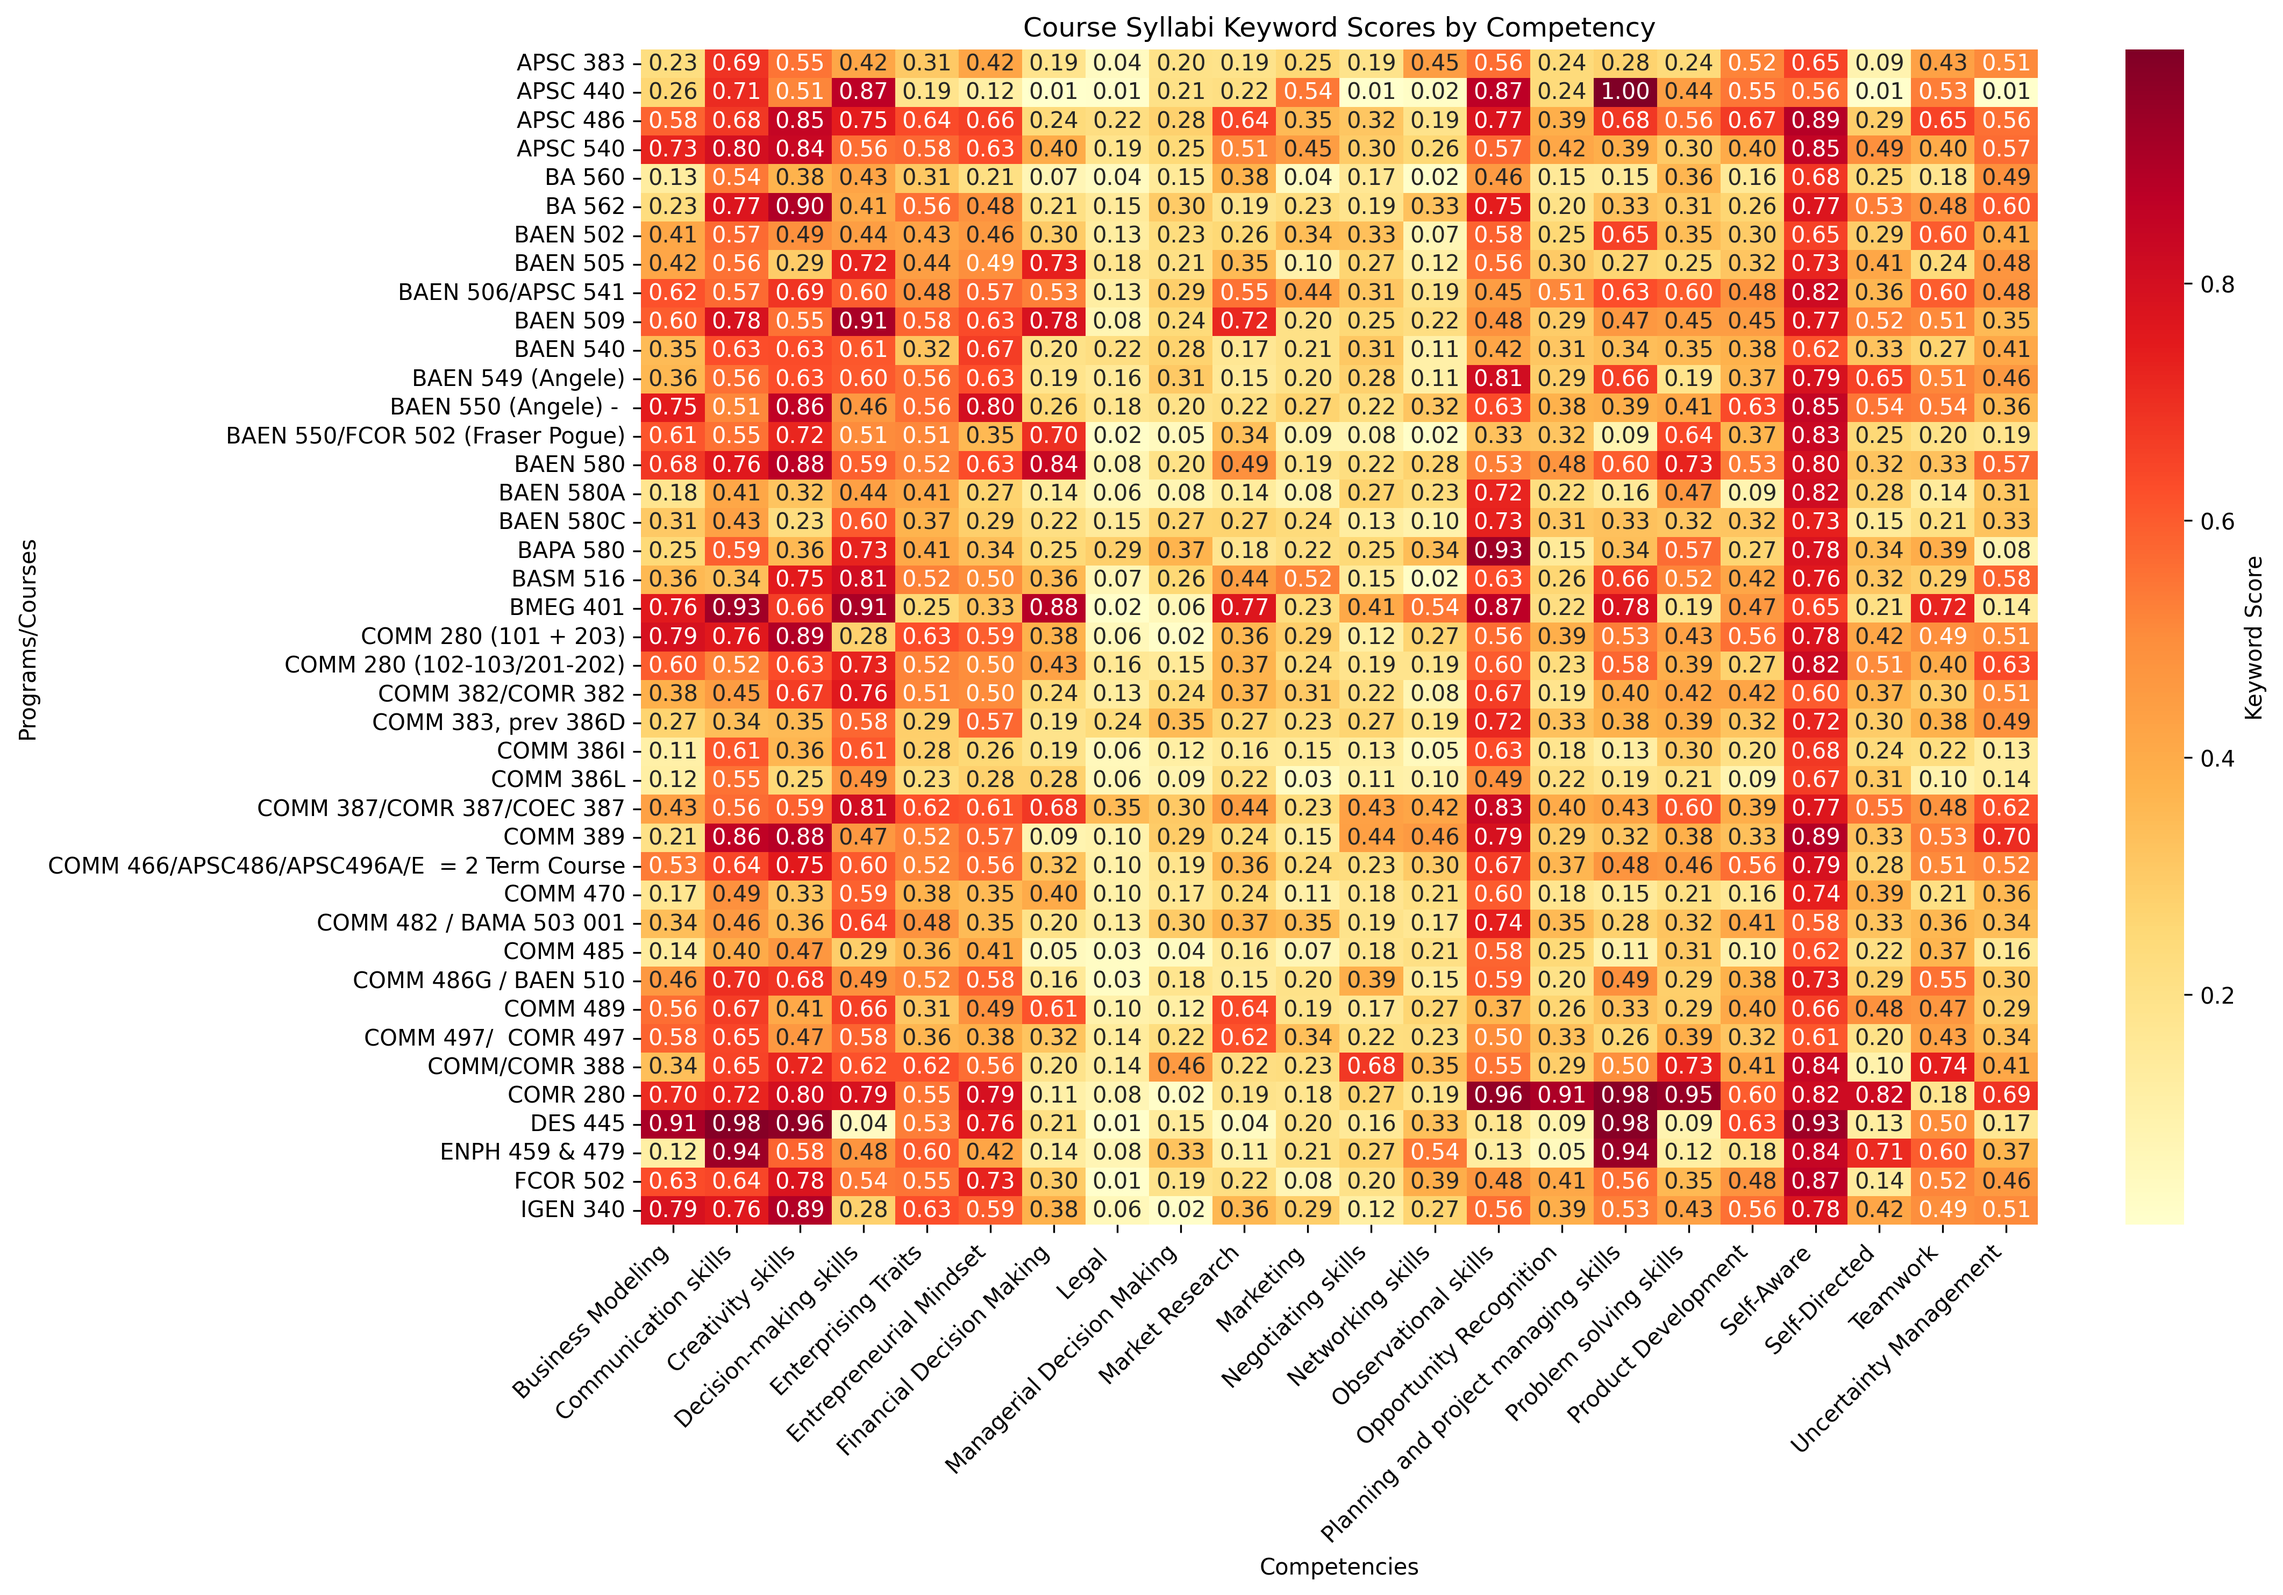
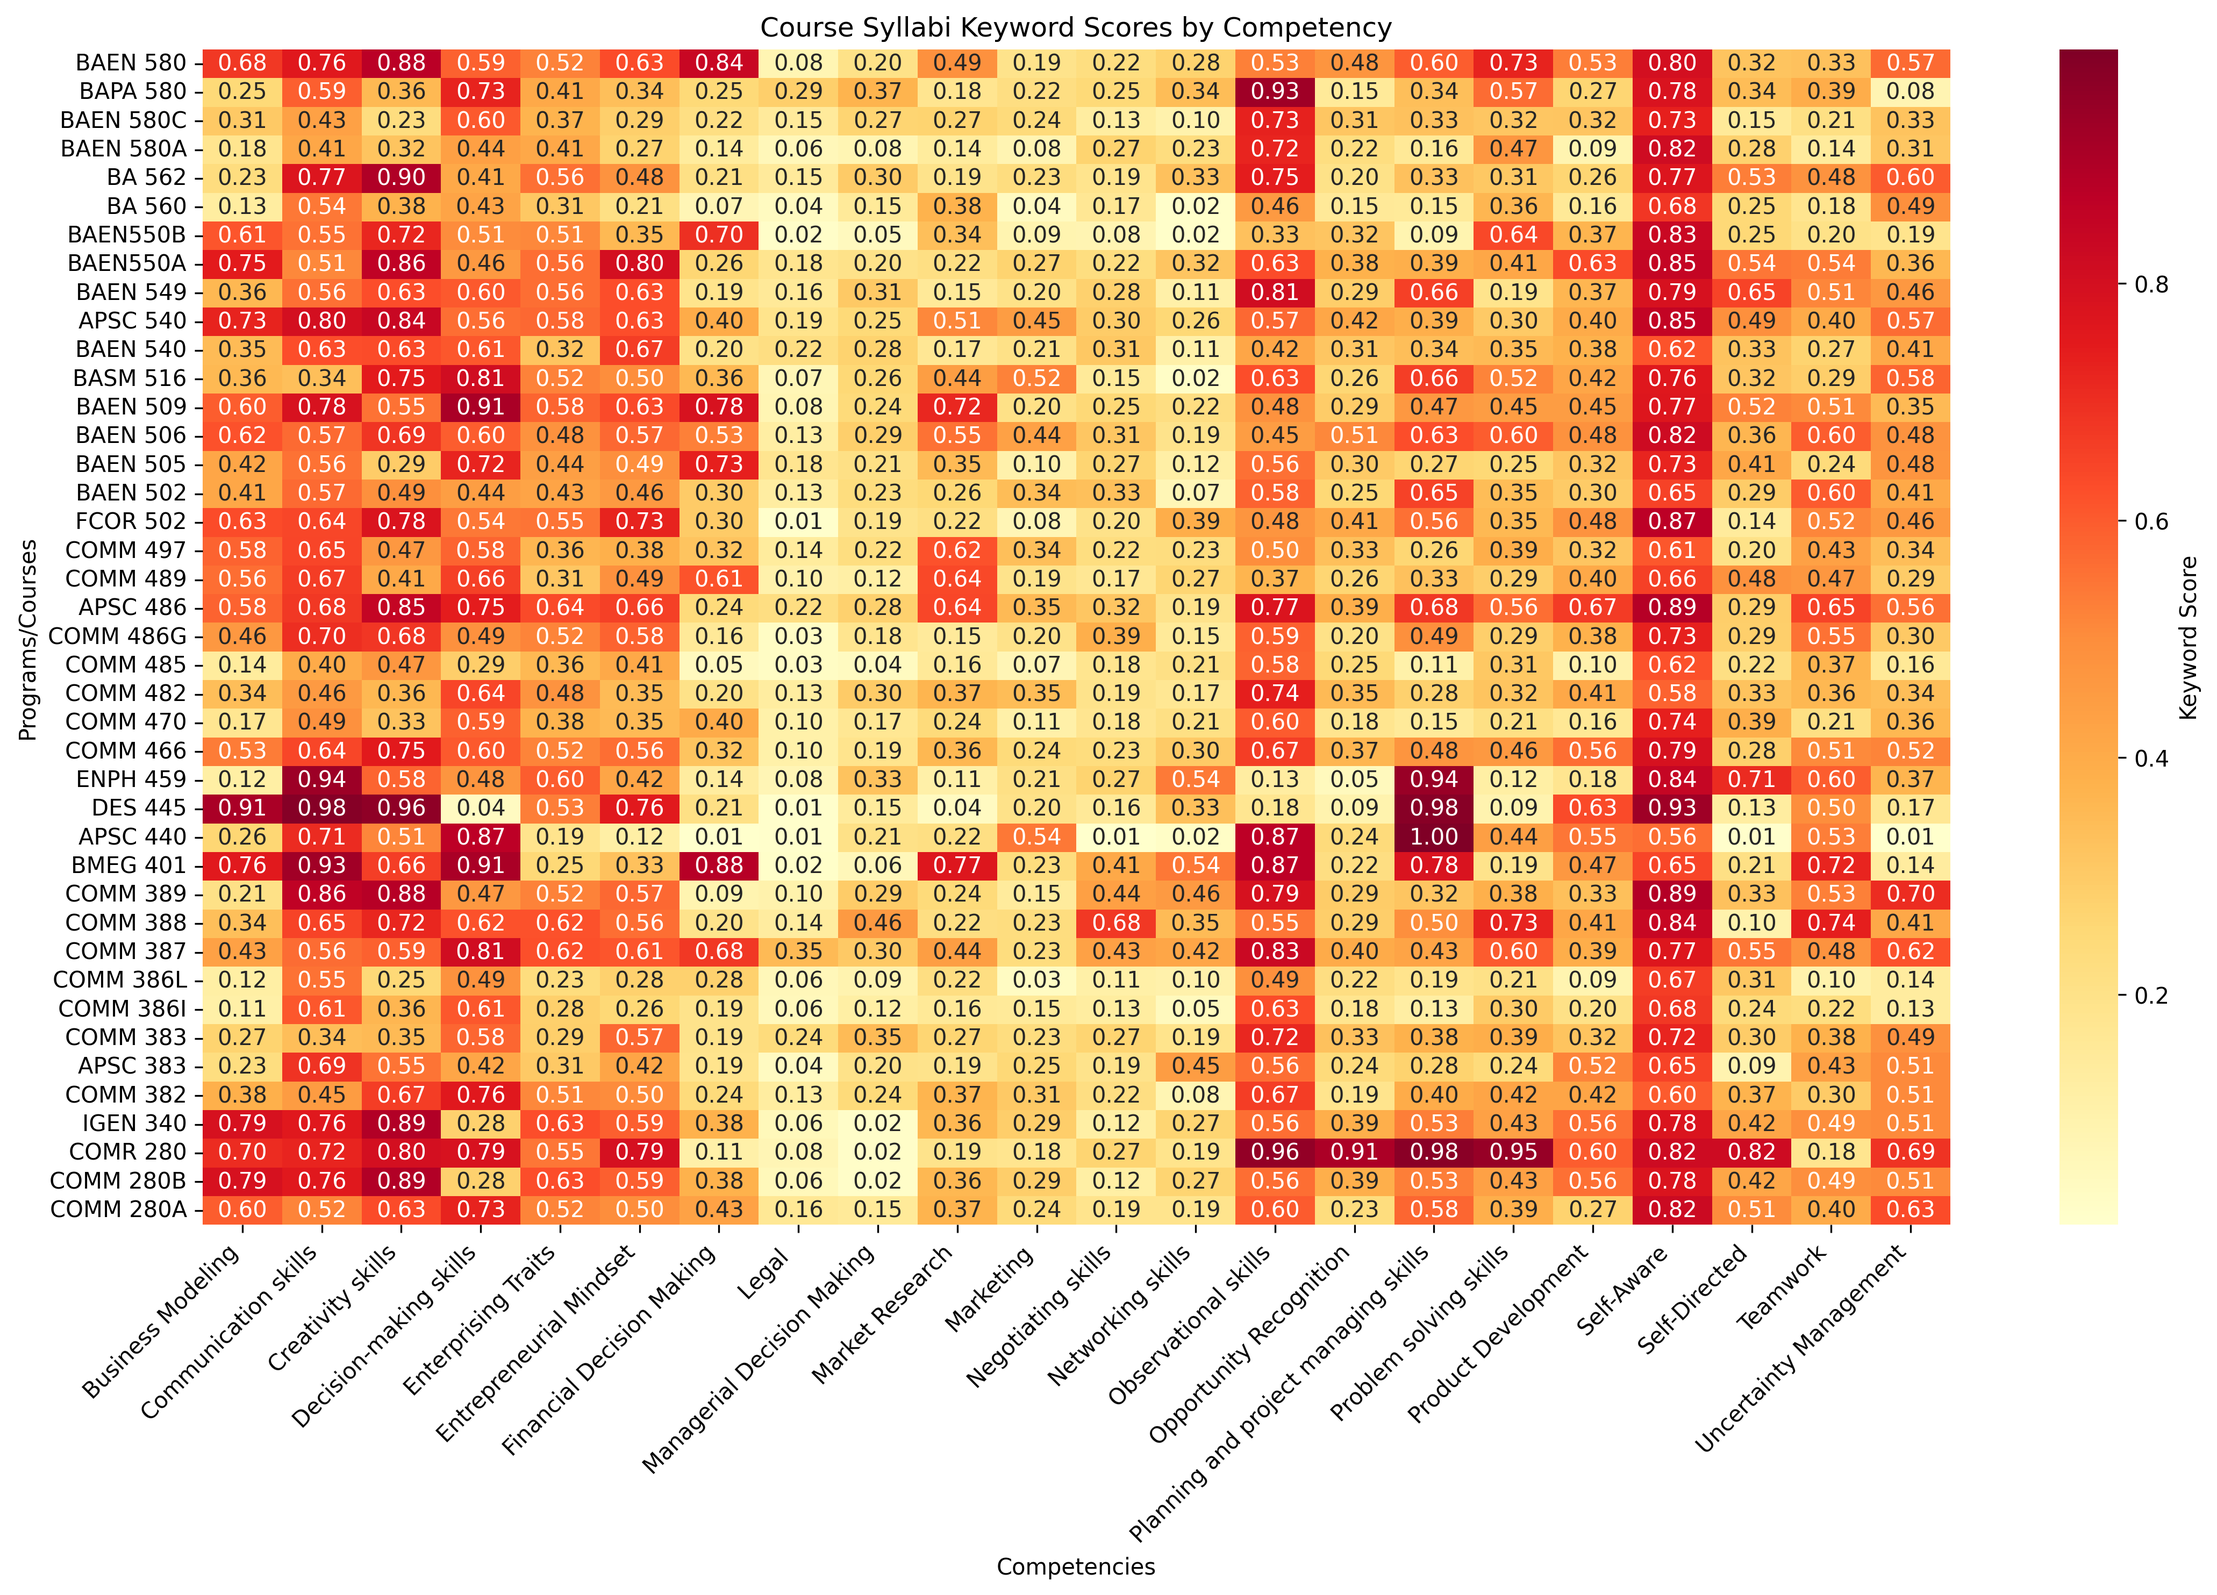
polish the syllabi mapping data. update the rendered course codes and add mapping

diff --git a/compare_scores.py b/compare_scores.py
@@ -1,6 +1,15 @@
 import pandas as pd
 import seaborn as sns
 import matplotlib.pyplot as plt
+import re
+
+def extract_course_number(course_code):
+    """
+    Extracts the numerical part of a course code for sorting.
+    Example: 'COMM 386L' -> 386, 'BAEN 550A' -> 550
+    """
+    match = re.search(r'(\d+)', course_code)
+    return int(match.group(1)) if match else 0
 
 def load_and_prepare_data(syllabi_file, program_file):
     """
@@ -10,20 +19,53 @@ def load_and_prepare_data(syllabi_file, program_file):
     syllabi_df = pd.read_csv(syllabi_file)
     program_df = pd.read_csv(program_file)
     
-    # Pivot the dataframes to get competencies as columns and programs/courses as rows
-    syllabi_pivot = syllabi_df.pivot(
-        index='course_code',
-        columns='competency',
-        values='keyword_score'
-    )
+    # Create modified syllabi dataframe with updated course codes
+    syllabi_df_modified = syllabi_df.copy()
+    code_mapping = {
+        'COMM 280 (102-103/201-202)': 'COMM 280A',
+        'COMM 280 (101 + 203)': 'COMM 280B',
+        'COMM 382/COMR 382': 'COMM 382',
+        'COMM 383, prev 386D': 'COMM 383',
+        'COMM 387/COMR 387/COEC 387': 'COMM 387',
+        'COMM/COMR 388': 'COMM 388',
+        'COMM 466/APSC486/APSC496A/E  = 2 Term Course': 'COMM 466',
+        'COMM 482 / BAMA 503 001': 'COMM 482',
+        'COMM 486G / BAEN 510': 'COMM 486G',
+        'COMM 497/  COMR 497': 'COMM 497',
+        'BAEN 506/APSC 541': 'BAEN 506',
+        'BAEN 549 (Angele)': 'BAEN 549',
+        'BAEN 550 (Angele) - ': 'BAEN550A',
+        'BAEN 550/FCOR 502 (Fraser Pogue)': 'BAEN550B',
+        'ENPH 459 & 479': 'ENPH 459'
+    }
+    syllabi_df_modified['course_code'] = syllabi_df_modified['course_code'].replace(code_mapping)
     
+    # Pivot the dataframes
     program_pivot = program_df.pivot(
         index='program',
         columns='skill',
         values='keyword_score'
     )
     
-    return syllabi_pivot, program_pivot
+    syllabi_pivot = syllabi_df.pivot(
+        index='course_code',
+        columns='competency',
+        values='keyword_score'
+    )
+    
+    syllabi_pivot_modified = syllabi_df_modified.pivot(
+        index='course_code',
+        columns='competency',
+        values='keyword_score'
+    )
+    
+    # Sort syllabi pivot by course number (higher numbers on top)
+    syllabi_pivot_modified = syllabi_pivot_modified.sort_index(
+        key=lambda x: x.map(extract_course_number),
+        ascending=False
+    )
+    
+    return syllabi_pivot_modified, program_pivot
 
 def create_heatmap(data, title, output_file):
     """
